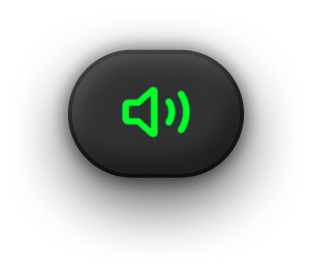
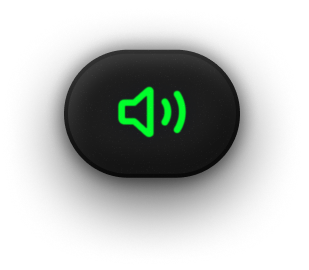
fix(37): TTS state transitions, remove toast overlay, update sound button
- Speaking state now resolves via updateAggregateState() instead of blindly
  restoring previous state — fixes stuck "Reading recap" after TTS dismiss
- Mute/recording dismissal properly transitions to done or working
- Remove previousStateBeforeVoice (no longer needed)
- Remove toast overlay from LCD (user preference: no LCD toast)
- Replace sound-active.png with darker bg variant

diff --git a/Sources/Monitor/ClaudeMonitor.swift b/Sources/Monitor/ClaudeMonitor.swift
@@ -89,7 +89,6 @@ final class ClaudeMonitor: ObservableObject {
 
     @Published var state: ClaudeState = .done
     @Published var pendingPermission: PendingPermission?
-    private var previousStateBeforeVoice: ClaudeState?
     private var cancellables = Set<AnyCancellable>()
     @Published var soundEnabled: Bool {
         didSet { UserDefaults.standard.set(soundEnabled, forKey: "soundEnabled") }
@@ -103,15 +102,10 @@ final class ClaudeMonitor: ObservableObject {
                 currentPreset = oldValue
                 return
             }
-            presetToastMessage = "RESTART SESSION TO APPLY"
-            DispatchQueue.main.asyncAfter(deadline: .now() + 5.0) { [weak self] in
-                self?.presetToastMessage = nil
-            }
         }
     }
 
-    @Published var presetToastMessage: String? = nil
-    @Published var isSettingsMalformed: Bool = false
+@Published var isSettingsMalformed: Bool = false
     @Published var vibrationEnabled: Bool {
         didSet { UserDefaults.standard.set(vibrationEnabled, forKey: "vibrationEnabled") }
     }
@@ -328,11 +322,15 @@ final class ClaudeMonitor: ObservableObject {
                 guard let self else { return }
                 self.isRecording = recording
                 if recording {
-                    self.previousStateBeforeVoice = self.state
                     self.state = .listening
                 } else if self.state == .listening {
-                    self.state = self.previousStateBeforeVoice ?? .idle
-                    self.previousStateBeforeVoice = nil
+                    self.updateAggregateState()
+                    if self.state == .listening {
+                        self.state = .done
+                    }
+                    if self.state == .done {
+                        self.startIdleTimer(interval: 180)
+                    }
                 }
             }
             .store(in: &cancellables)
@@ -344,15 +342,15 @@ final class ClaudeMonitor: ObservableObject {
                 guard let self else { return }
                 self.isSpeaking = speaking
                 if speaking {
-                    self.previousStateBeforeVoice = self.state
                     self.state = .speaking
                 } else if self.state == .speaking {
-                    // Go back to done (TTS reads after stop), or previous state
-                    let restore = self.previousStateBeforeVoice ?? .done
-                    self.previousStateBeforeVoice = nil
-                    self.state = restore
-                    // Re-start idle timer since we're back to done
-                    if restore == .done {
+                    // TTS finished or was dismissed — resolve state from session data
+                    self.updateAggregateState()
+                    // If no active sessions, fall back to done and start idle timer
+                    if self.state == .speaking {
+                        self.state = .done
+                    }
+                    if self.state == .done {
                         self.startIdleTimer(interval: 180)
                     }
                 }

diff --git a/Sources/Widget/ScreenContentView.swift b/Sources/Widget/ScreenContentView.swift
@@ -80,17 +80,7 @@ struct ScreenContentView: View {
                     .transition(.opacity)
             }
 
-            // Preset change toast (PERM-03, D-08) — shows for 5s on mode change
-            if let toastText = monitor.presetToastMessage {
-                Text(toastText)
-                    .font(.system(size: 9, weight: .heavy, design: .monospaced))
-                    .foregroundColor(themeManager.lcdOn)
-                    .frame(maxWidth: .infinity, maxHeight: .infinity)
-                    .background(themeManager.darkMode ? themeManager.lcdBg.opacity(0.9) : Color.clear.opacity(0.9))
-                    .transition(.opacity)
-            }
-
-            // Vignette
+// Vignette
             RadialGradient(
                 colors: [.clear, Color(hex: "1A3008").opacity(0.25)],
                 center: .center,
